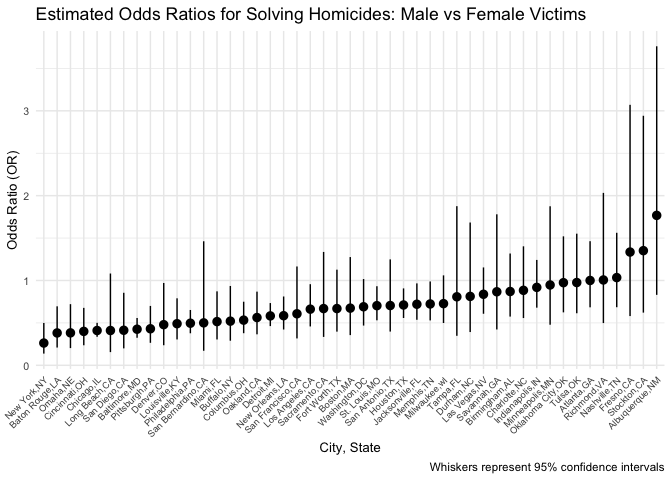
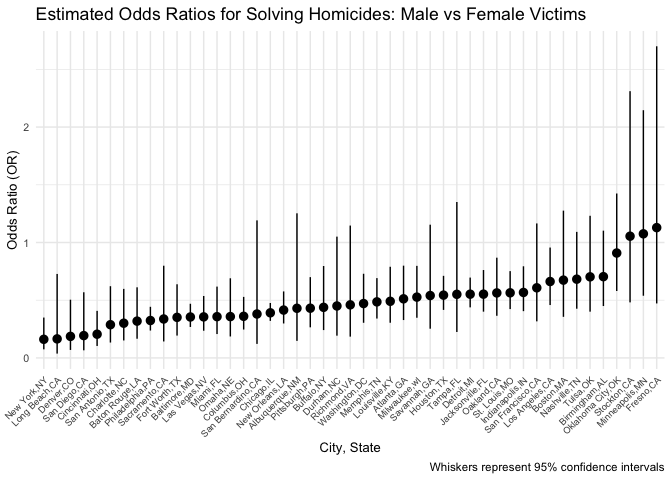
adding comments for problem 1 + 2

diff --git a/p8105_hw6_iah2124.md b/p8105_hw6_iah2124.md
@@ -67,6 +67,9 @@ ggplot(bootstrap_df, aes(x = r_squared)) +
 ```
 
 ![](p8105_hw6_iah2124_files/figure-gfm/unnamed-chunk-4-1.png)<!-- -->
+The ditribution of r_squared is approximately normally distributed with
+a 95% confidence interval of 0.8945701 , 0.9271042.
+
 Plot the distribution of log(β0 \* β1)
 
 ``` r
@@ -76,6 +79,9 @@ ggplot(bootstrap_df, aes(x = log_beta_prod)) +
 ```
 
 ![](p8105_hw6_iah2124_files/figure-gfm/unnamed-chunk-5-1.png)<!-- -->
+The distribution of log(β0 \* β1) is approximately normally distributed
+with a 95% confidence interval of 1.964166 , 2.058364.
+
 Calculate 95% Confidence Intervals
 
 ``` r
@@ -106,7 +112,7 @@ homicide_df <- read_csv("homicide-data.csv") |>
 
   mutate(
     solved = case_when(
-      disposition == "Closed without arrest" ~ 0,
+      disposition == "Closed without arrest" ~ 1,
       disposition == "Open/No arrest" ~ 0, 
       disposition == "Closed by arrest" ~ 1,
       TRUE ~ NA_real_  
@@ -155,8 +161,8 @@ baltimore_reg <- glm(
 baltimore_OR <- broom::tidy(baltimore_reg) |>
   mutate(
     OR = exp(estimate), 
-    CI_upper = exp(estimate + 1.96 * std.error),  # Upper bound of CI
-    CI_lower = exp(estimate - 1.96 * std.error)   # Lower bound of CI
+    CI_upper = exp(estimate + 1.96 * std.error),  
+    CI_lower = exp(estimate - 1.96 * std.error)   
   ) |>
   filter(term == "victim_sexMale") |>
   select(OR, CI_lower, CI_upper)  
@@ -167,7 +173,7 @@ baltimore_OR
     ## # A tibble: 1 × 3
     ##      OR CI_lower CI_upper
     ##   <dbl>    <dbl>    <dbl>
-    ## 1 0.426    0.325    0.558
+    ## 1 0.355    0.268    0.469
 
 Calculating ORs for each city listed
 
@@ -194,53 +200,53 @@ allcity_ORresults |>
 
 | city_state        |     OR | CI_upper | CI_lower |
 |:------------------|-------:|---------:|---------:|
-| Albuquerque,NM    | 1.7675 |   3.7609 |   0.8307 |
-| Atlanta,GA        | 1.0001 |   1.4631 |   0.6836 |
-| Baltimore,MD      | 0.4255 |   0.5579 |   0.3246 |
-| Baton Rouge,LA    | 0.3814 |   0.6953 |   0.2093 |
-| Birmingham,AL     | 0.8700 |   1.3180 |   0.5743 |
+| Albuquerque,NM    | 0.4301 |   1.2528 |   0.1476 |
+| Atlanta,GA        | 0.5121 |   0.7993 |   0.3281 |
+| Baltimore,MD      | 0.3547 |   0.4691 |   0.2681 |
+| Baton Rouge,LA    | 0.3188 |   0.6117 |   0.1661 |
+| Birmingham,AL     | 0.7040 |   1.1026 |   0.4495 |
 | Boston,MA         | 0.6740 |   1.2760 |   0.3560 |
-| Buffalo,NY        | 0.5206 |   0.9352 |   0.2898 |
-| Charlotte,NC      | 0.8839 |   1.4027 |   0.5570 |
-| Chicago,IL        | 0.4101 |   0.5006 |   0.3360 |
-| Cincinnati,OH     | 0.3998 |   0.6771 |   0.2361 |
-| Columbus,OH       | 0.5325 |   0.7496 |   0.3783 |
-| Denver,CO         | 0.4791 |   0.9707 |   0.2364 |
-| Detroit,MI        | 0.5823 |   0.7337 |   0.4622 |
-| Durham,NC         | 0.8124 |   1.6833 |   0.3920 |
-| Fort Worth,TX     | 0.6690 |   1.1275 |   0.3969 |
-| Fresno,CA         | 1.3352 |   3.0709 |   0.5805 |
-| Houston,TX        | 0.7110 |   0.9066 |   0.5577 |
-| Indianapolis,IN   | 0.9187 |   1.2423 |   0.6794 |
-| Jacksonville,FL   | 0.7198 |   0.9657 |   0.5365 |
-| Las Vegas,NV      | 0.8373 |   1.1537 |   0.6077 |
-| Long Beach,CA     | 0.4102 |   1.0821 |   0.1555 |
+| Buffalo,NY        | 0.4382 |   0.7963 |   0.2412 |
+| Charlotte,NC      | 0.3008 |   0.5982 |   0.1513 |
+| Chicago,IL        | 0.3908 |   0.4760 |   0.3209 |
+| Cincinnati,OH     | 0.2055 |   0.4077 |   0.1036 |
+| Columbus,OH       | 0.3606 |   0.5288 |   0.2458 |
+| Denver,CO         | 0.1866 |   0.5043 |   0.0690 |
+| Detroit,MI        | 0.5522 |   0.6961 |   0.4380 |
+| Durham,NC         | 0.4501 |   1.0508 |   0.1928 |
+| Fort Worth,TX     | 0.3514 |   0.6381 |   0.1936 |
+| Fresno,CA         | 1.1289 |   2.6999 |   0.4720 |
+| Houston,TX        | 0.5439 |   0.7112 |   0.4160 |
+| Indianapolis,IN   | 0.5672 |   0.7939 |   0.4052 |
+| Jacksonville,FL   | 0.5524 |   0.7614 |   0.4008 |
+| Las Vegas,NV      | 0.3556 |   0.5366 |   0.2356 |
+| Long Beach,CA     | 0.1650 |   0.7275 |   0.0374 |
 | Los Angeles,CA    | 0.6619 |   0.9563 |   0.4581 |
 | Louisville,KY     | 0.4906 |   0.7897 |   0.3047 |
-| Memphis,TN        | 0.7232 |   0.9884 |   0.5292 |
-| Miami,FL          | 0.5152 |   0.8719 |   0.3045 |
-| Milwaukee,wI      | 0.7271 |   1.0602 |   0.4987 |
-| Minneapolis,MN    | 0.9470 |   1.8749 |   0.4783 |
-| Nashville,TN      | 1.0342 |   1.5622 |   0.6847 |
-| New Orleans,LA    | 0.5849 |   0.8112 |   0.4218 |
-| New York,NY       | 0.2624 |   0.4991 |   0.1379 |
+| Memphis,TN        | 0.4856 |   0.6914 |   0.3411 |
+| Miami,FL          | 0.3575 |   0.6180 |   0.2068 |
+| Milwaukee,wI      | 0.5268 |   0.7976 |   0.3479 |
+| Minneapolis,MN    | 1.0752 |   2.1462 |   0.5387 |
+| Nashville,TN      | 0.6822 |   1.0920 |   0.4262 |
+| New Orleans,LA    | 0.4146 |   0.5761 |   0.2984 |
+| New York,NY       | 0.1613 |   0.3497 |   0.0744 |
 | Oakland,CA        | 0.5631 |   0.8684 |   0.3651 |
-| Oklahoma City,OK  | 0.9741 |   1.5203 |   0.6241 |
-| Omaha,NE          | 0.3825 |   0.7208 |   0.2030 |
-| Philadelphia,PA   | 0.4963 |   0.6522 |   0.3776 |
+| Oklahoma City,OK  | 0.9088 |   1.4245 |   0.5798 |
+| Omaha,NE          | 0.3581 |   0.6900 |   0.1858 |
+| Philadelphia,PA   | 0.3242 |   0.4429 |   0.2373 |
 | Pittsburgh,PA     | 0.4308 |   0.6999 |   0.2651 |
-| Richmond,VA       | 1.0061 |   2.0326 |   0.4980 |
-| San Antonio,TX    | 0.7046 |   1.2485 |   0.3977 |
-| Sacramento,CA     | 0.6688 |   1.3365 |   0.3347 |
-| Savannah,GA       | 0.8670 |   1.7801 |   0.4223 |
-| San Bernardino,CA | 0.5003 |   1.4622 |   0.1712 |
-| San Diego,CA      | 0.4130 |   0.8550 |   0.1995 |
+| Richmond,VA       | 0.4598 |   1.1467 |   0.1844 |
+| San Antonio,TX    | 0.2878 |   0.6214 |   0.1333 |
+| Sacramento,CA     | 0.3374 |   0.7988 |   0.1425 |
+| Savannah,GA       | 0.5404 |   1.1543 |   0.2530 |
+| San Bernardino,CA | 0.3805 |   1.1916 |   0.1215 |
+| San Diego,CA      | 0.1935 |   0.5688 |   0.0658 |
 | San Francisco,CA  | 0.6075 |   1.1651 |   0.3168 |
-| St. Louis,MO      | 0.7032 |   0.9323 |   0.5304 |
-| Stockton,CA       | 1.3517 |   2.9416 |   0.6211 |
-| Tampa,FL          | 0.8077 |   1.8760 |   0.3478 |
-| Tulsa,OK          | 0.9758 |   1.5517 |   0.6136 |
-| Washington,DC     | 0.6902 |   1.0170 |   0.4684 |
+| St. Louis,MO      | 0.5641 |   0.7520 |   0.4231 |
+| Stockton,CA       | 1.0546 |   2.3110 |   0.4812 |
+| Tampa,FL          | 0.5510 |   1.3508 |   0.2248 |
+| Tulsa,OK          | 0.7025 |   1.2315 |   0.4008 |
+| Washington,DC     | 0.4711 |   0.7291 |   0.3044 |
 
 Creating a plot to display OR data
 
@@ -262,6 +268,12 @@ ggplot(allcity_ORresults, aes(x = reorder(city_state, OR), y = OR, ymin = CI_low
 ```
 
 ![](p8105_hw6_iah2124_files/figure-gfm/unnamed-chunk-11-1.png)<!-- -->
+The estimated odds ratios for solving homicides for male vs. female
+victims is typically less than 1 for most cities. This indicates that
+more male victims are less likely compared to female victims to have a
+resolved homicide case. However, in Stockton, CA, Minneapolis, MN, and
+Fresno, CA, male victims are more likely to have a resolved homicide
+case than females.
 
 ## Problem 3
 
@@ -287,3 +299,111 @@ birthweight_df = read_csv("birthweight.csv") |>
 ``` r
 view(birthweight_df)
 ```
+
+View the data in a visual layout
+
+``` r
+ggplot(birthweight_df, aes(x = bwt, y = blength)) + 
+  geom_point(color = "coral") +   
+  theme_minimal()
+```
+
+![](p8105_hw6_iah2124_files/figure-gfm/unnamed-chunk-13-1.png)<!-- -->
+
+Fit the regression model
+
+``` r
+hypotheticalrg_model <- lm(bwt ~ blength + bhead + babysex + gaweeks + delwt + fincome + 
+                            smoken + wtgain + momage + mheight + parity, data = birthweight_df)
+
+birthweight_df_with_preds_resids <- birthweight_df |>
+  add_predictions(hypotheticalrg_model) |>  
+  add_residuals(hypotheticalrg_model) |>     
+  ggplot(aes(x = pred, y = resid)) + 
+  geom_point() + 
+  geom_smooth(method = "lm", color = "lightgreen") +  
+  theme_minimal() +
+  labs(x = "Fitted Values", y = "Residuals", 
+       title = "Residuals vs Fitted Values for Birthweight Model")
+  
+birthweight_df_with_preds_resids
+```
+
+    ## `geom_smooth()` using formula = 'y ~ x'
+
+![](p8105_hw6_iah2124_files/figure-gfm/unnamed-chunk-14-1.png)<!-- -->
+
+Fit the three models
+
+``` r
+model1 <- lm(bwt ~ blength + bhead + babysex + gaweeks + delwt + fincome + 
+              smoken + wtgain + momage + mheight + parity, data = birthweight_df)
+
+model2 <- lm(bwt ~ blength + gaweeks, data = birthweight_df)
+
+model3 <- lm(bwt ~ bhead * blength * babysex, data = birthweight_df)
+
+# Compare AIC of each model
+model_comparison <- tibble(
+  Model = c("Model 1 (Full)", "Model 2 (Main Effects Only)", "Model 3 (Interactions)"),
+  AIC = c(AIC(model1), AIC(model2), AIC(model3)),
+  R_squared = c(summary(model1)$r.squared, summary(model2)$r.squared, summary(model3)$r.squared)
+)
+
+# Print the model comparison table
+print(model_comparison)
+```
+
+    ## # A tibble: 3 × 3
+    ##   Model                          AIC R_squared
+    ##   <chr>                        <dbl>     <dbl>
+    ## 1 Model 1 (Full)              61207.     0.706
+    ## 2 Model 2 (Main Effects Only) 62771.     0.577
+    ## 3 Model 3 (Interactions)      61501.     0.685
+
+``` r
+# Residual plots for each model
+model1_resids <- add_predictions(birthweight_df, model1) %>%
+  add_residuals(model1)
+
+model2_resids <- add_predictions(birthweight_df, model2) %>%
+  add_residuals(model2)
+
+model3_resids <- add_predictions(birthweight_df, model3) %>%
+  add_residuals(model3)
+
+# Plot residuals for each model
+ggplot(model1_resids, aes(x = pred, y = resid)) +
+  geom_point() +
+  geom_smooth(method = "lm", color = "lightgreen") +
+  labs(title = "Residuals vs Fitted for Model 1 (Full Model)", x = "Fitted Values", y = "Residuals") +
+  theme_minimal()
+```
+
+    ## `geom_smooth()` using formula = 'y ~ x'
+
+![](p8105_hw6_iah2124_files/figure-gfm/unnamed-chunk-15-1.png)<!-- -->
+
+``` r
+ggplot(model2_resids, aes(x = pred, y = resid)) +
+  geom_point() +
+  geom_smooth(method = "lm", color = "tomato") +
+  labs(title = "Residuals vs Fitted for Model 2 (Main Effects Only)", x = "Fitted Values", y = "Residuals") +
+  theme_minimal()
+```
+
+    ## `geom_smooth()` using formula = 'y ~ x'
+
+![](p8105_hw6_iah2124_files/figure-gfm/unnamed-chunk-15-2.png)<!-- -->
+
+``` r
+ggplot(model3_resids, aes(x = pred, y = resid)) +
+  geom_point() +
+  geom_smooth(method = "lm", color = "orchid") +
+  labs(title = "Residuals vs Fitted for Model 3 (Interactions)", x = "Fitted Values", y = "Residuals") +
+  theme_minimal()
+```
+
+    ## `geom_smooth()` using formula = 'y ~ x'
+
+![](p8105_hw6_iah2124_files/figure-gfm/unnamed-chunk-15-3.png)<!-- -->
